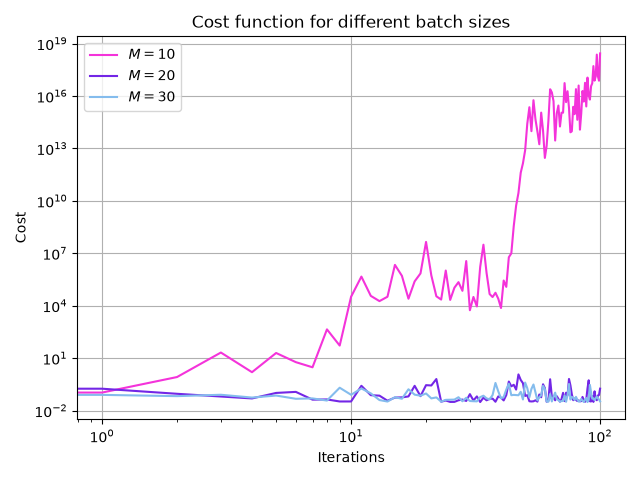
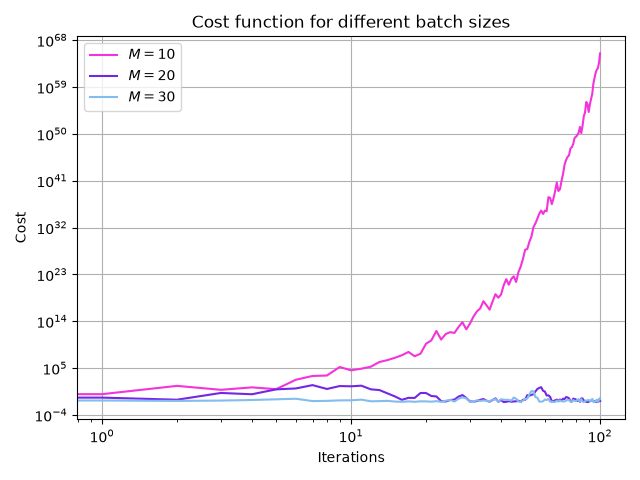
figures

diff --git a/Project_1/Code/_Part_e.py b/Project_1/Code/_Part_e.py
@@ -195,14 +195,14 @@ plt.show()
 
 """Comparing the trained data and the test data"""
 n_test = X_test.shape[0]
-test_mse_OLS = (1.0 / n_test) * np.sum((X_test @ theta_OLS - y_test) ** 2)
-test_mse_Ridge = (1.0 / n_test) * np.sum((X_test @ theta_Ridge - y_test) ** 2) + lam * np.sum(theta_Ridge ** 2)
-test_vals = [test_mse_OLS, test_mse_Ridge]
+cost_test_OLS = cost(theta_OLS, X_test, y_test, penalty = "None")
+cost_test_Ridge = cost(theta_Ridge, X_test, y_test, lmbda=lam, penalty = "L2")
+test_vals = [cost_test_OLS, cost_test_Ridge]
 
 n_train = X.shape[0]
-train_mse_OLS = (1.0 / n_train) * np.sum((X @ theta_OLS - y) ** 2)
-train_mse_Ridge = (1.0 / n_train) * np.sum((X @ theta_Ridge - y) ** 2) + lam * np.sum(theta_Ridge ** 2)
-train_vals = [train_mse_OLS, train_mse_Ridge]
+cost_train_OLS = cost(theta_OLS, X, y, penalty = "None")
+cost_train_Ridge = cost(theta_Ridge, X, y, lmbda=lam, penalty = "L2")
+train_vals = [cost_train_OLS, cost_train_Ridge]
 
 labels = ["OLS", "Ridge"]
 x = np.arange(len(labels))
@@ -215,13 +215,12 @@ plt.ylabel("MSE")
 plt.title("Train vs. test MSE: OLS vs Ridge")
 plt.legend()
 plt.grid(axis='y', alpha=0.3)
+#plt.savefig("Part_e_hist_testtrain.png")
 plt.show()
 
 print("Test-set evaluation-------------------------------")
-print(f"OLS:   train={train_mse_OLS:.4e}, test={test_mse_OLS:.4e}, gap={test_mse_OLS - train_mse_OLS:.4e}")
-print(f"Ridge: train={train_mse_Ridge:.4e}, test={test_mse_Ridge:.4e}, gap={test_mse_Ridge - train_mse_Ridge:.4e}")
-
-
+print(f"OLS:   train={cost_train_OLS:.4e}, test={cost_test_OLS:.4e}, gap={cost_test_OLS - cost_train_OLS:.4e}")
+print(f"Ridge: train={cost_train_Ridge:.4e}, test={cost_test_Ridge:.4e}, gap={cost_test_Ridge - cost_test_Ridge:.4e}")
 
 
 """For different lambda values, comparing test and train"""
@@ -230,40 +229,19 @@ train_errs, test_errs = [], []
 
 for lm in lambdas:
     theta_lm = closed_form(X, y, lmbda=lm)
-    train_errs.append((1.0/len(y)) * np.sum((X @ theta_lm - y)**2))
-    test_errs.append((1.0/n_test) * np.sum((X_test @ theta_lm - y_test)**2))
+    train_errs.append(cost(theta_lm, X, y))
+    test_errs.append(cost(theta_lm, X_test, y_test))
 
 plt.plot(lambdas, train_errs, label="Train MSE", color = "#F433DA")
 plt.plot(lambdas, test_errs, label="Test MSE", color = "#7326E6")
 plt.xscale("log")
 plt.yscale("log")
 plt.xlabel(r"$\lambda$")
-plt.ylabel("MSE")
+plt.ylabel("Cost")
 plt.title("Train vs test error across regularization strength")
 plt.legend()
 plt.tight_layout()
 plt.grid()
+#plt.savefig("Part_e_cost_lambda_testtrain.png")
 plt.show()
 
-
-
-"""plt.scatter(y, X @ theta_OLS, alpha=0.6, label="OLS")
-plt.scatter(y, X @ theta_Ridge, alpha=0.6, label="Ridge")
-plt.plot([y.min(), y.max()], [y.min(), y.max()], 'k--', label="Perfect prediction")
-plt.xlabel("True y (train)")
-plt.ylabel("Predicted y (train)")
-plt.legend()
-plt.title("Predicted vs. actual on held-out test data")
-plt.grid()
-plt.show()
-
-
-plt.scatter(y_test, X_test @ theta_OLS, alpha=0.6, label="OLS")
-plt.scatter(y_test, X_test @ theta_Ridge, alpha=0.6, label="Ridge")
-plt.plot([y_test.min(), y_test.max()], [y_test.min(), y_test.max()], 'k--', label="Perfect prediction")
-plt.xlabel("True y (test)")
-plt.ylabel("Predicted y (test)")
-plt.legend()
-plt.title("Predicted vs. actual on held-out test data")
-plt.grid()
-plt.show()"""
